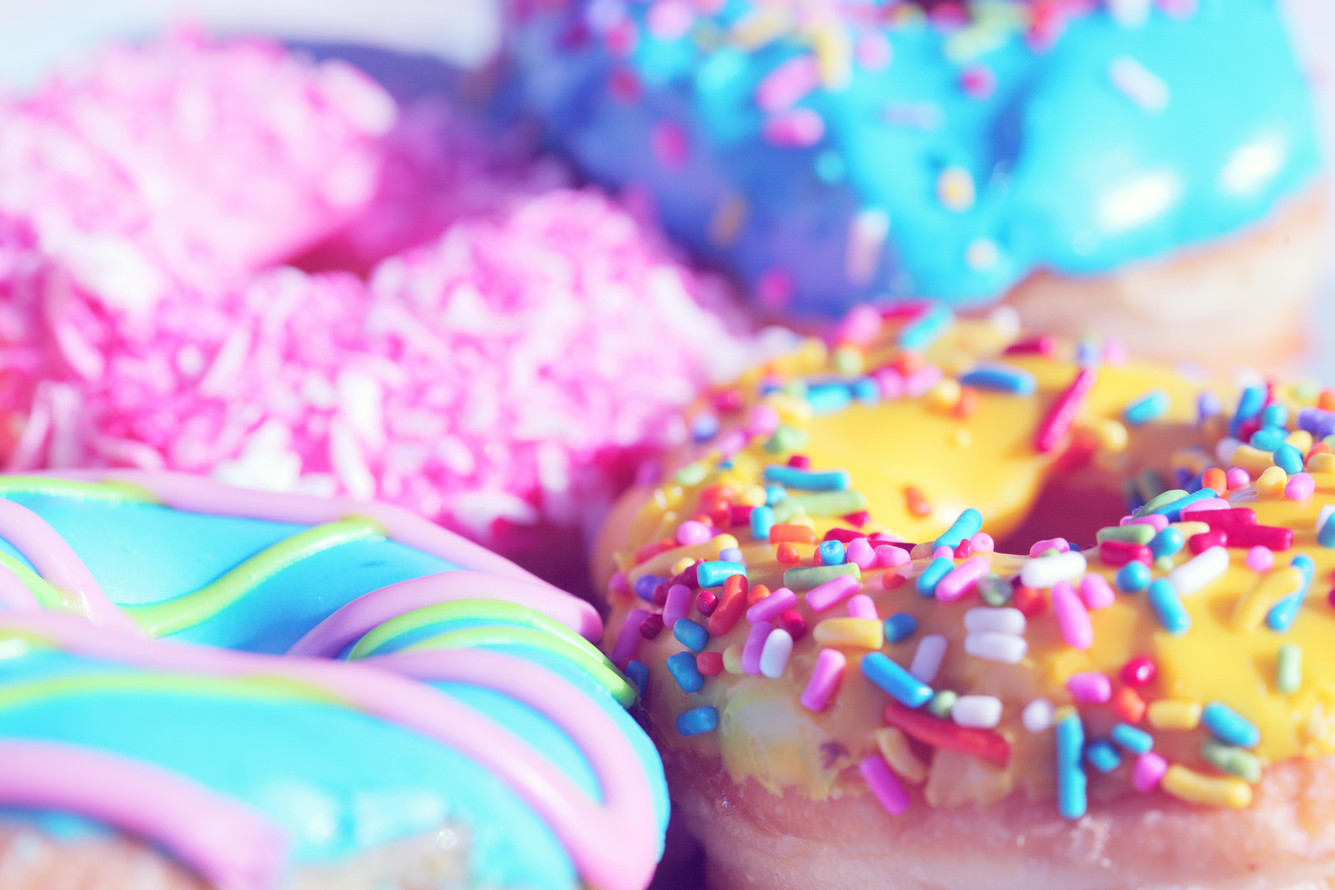
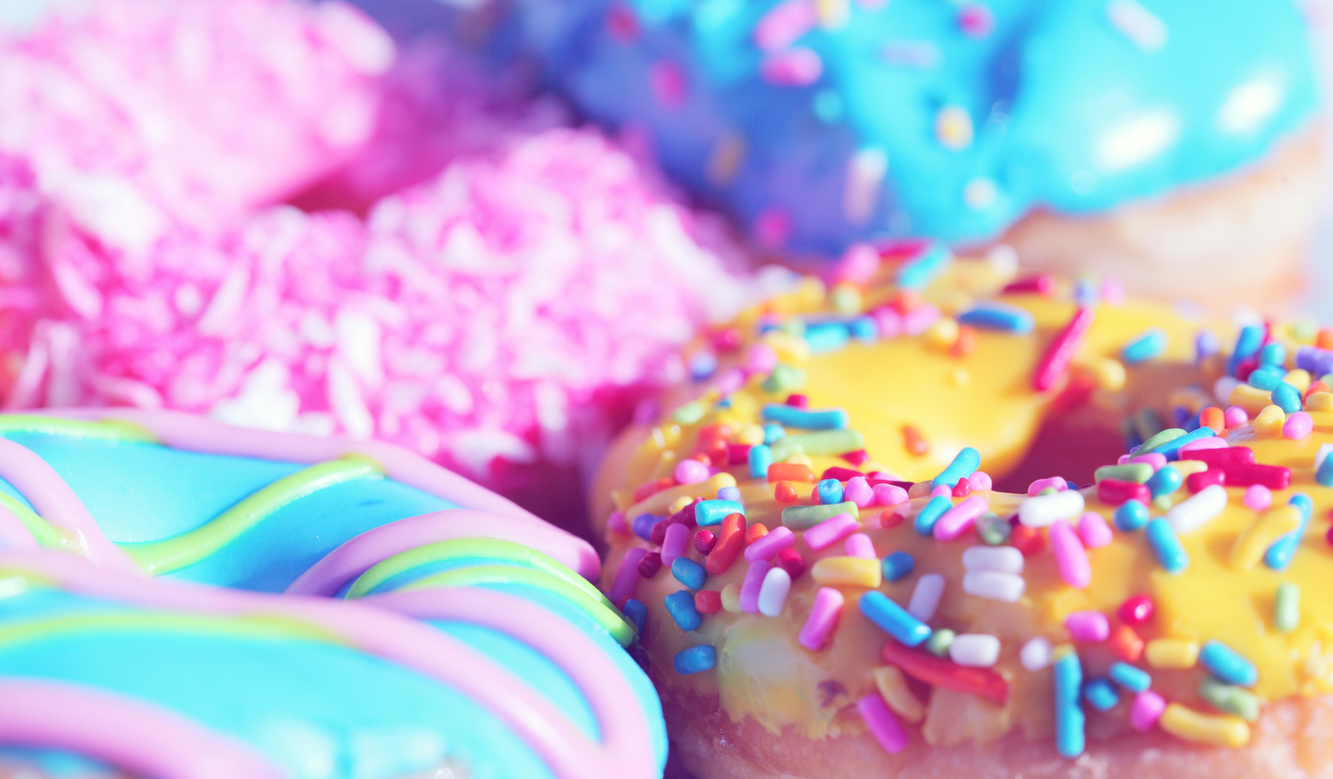
finised home + review page design

diff --git a/index.html b/index.html
@@ -14,77 +14,132 @@
     <title>Donald's Donuts</title>
   </head>
   <body>
-    <div class="card w-96 bg-base-100 shadow-xl">
-      <figure>
-        <img
-          src="https://img.daisyui.com/images/stock/photo-1606107557195-0e29a4b5b4aa.jpg"
-          alt="Shoes"
-        />
-      </figure>
-      <div class="card-body">
-        <h2 class="card-title">Shoes!</h2>
-        <p>If a dog chews shoes whose shoes does he choose?</p>
-        <div class="card-actions justify-end">
-          <button class="btn btn-primary">Buy Now</button>
-        </div>
-      </div>
-    </div>
     <section id="home">
-      <nav>
-        <!-- <a href="#"><img src="images/logo.PNG" /></a> -->
-        <a href="#">Home</a> | <a href="#">Reviews</a> | <a href="#">Menu</a> |
-        <a href="#">Contact</a>
-      </nav>
-      <h1>Fresh, Delicious Donuts Made Daily!</h1>
-      <p>
-        Visit us for a sweet treat and experience the freshly baked,
-        mouth-watering donuts.
-      </p>
-      <button>Discover our Donuts!</button>
+      <div class="navbar bg-base-300">
+        <div class="navbar-start">
+          <div class="dropdown">
+            <div tabindex="0" role="button" class="btn btn-ghost lg:hidden">
+              <svg
+                xmlns="http://www.w3.org/2000/svg"
+                class="h-5 w-5"
+                fill="none"
+                viewBox="0 0 24 24"
+                stroke="currentColor"
+              >
+                <path
+                  stroke-linecap="round"
+                  stroke-linejoin="round"
+                  stroke-width="2"
+                  d="M4 6h16M4 12h8m-8 6h16"
+                />
+              </svg>
+            </div>
+            <ul
+              tabindex="0"
+              class="menu menu-sm dropdown-content mt-3 z-[1] p-2 shadow bg-base-100 rounded-box w-52"
+            >
+              <li><a>Home</a></li>
+              <li><a>Reviews</a></li>
+              <li><a>Menu</a></li>
+              <li><a>Contact</a></li>
+            </ul>
+          </div>
+          <a class="btn btn-lg btn-ghost"
+            ><img src="images/logo.PNG" id="navbar-logo"
+          /></a>
+        </div>
+        <div class="navbar-center hidden lg:flex">
+          <ul class="menu menu-horizontal px-1">
+            <li><a class="text-xl">Home</a></li>
+            <li><a class="text-xl">Reviews</a></li>
+            <li><a class="text-xl">Menu</a></li>
+            <li><a class="text-xl">Contact</a></li>
+          </ul>
+        </div>
+        <div class="navbar-end"></div>
+      </div>
+      <div class="img-div">
+        <img src="images/home_bckgrnd_img.jpg" id="home-img" />
+        <h1 class="text-8xl font-bold wht" id="attention-phrase">
+          Fresh, Delicious Donuts Made Daily!
+        </h1>
+        <p class="text-3xl wht" id="home-description">
+          Visit us for a sweet treat and experience the freshly baked,
+          mouth-watering donuts.
+        </p>
+        <button class="btn btn-lg btn-wide btn-primary" id="cta-button">
+          <p class="text-4xl" id="cta-button-text">Discover our Donuts!</p>
+        </button>
+      </div>
     </section>
     <section id="reviews">
-      <h1>Reviews</h1>
-      <div class="review-card small">
-        <div id="reviewer-name">Chuck</div>
-        <div id="review-content">
-          We've been going to Donald's for years and they're hands down the best
-          donuts in the area. The apple fritter is absolutely second to none.
-          The huge Chappel Hill sausage Texas style kolaches are a must have as
-          well. The staff is super friendly and even though we only go once in a
-          while they always remember us and our favorites.
-        </div>
-      </div>
-      <div class="review-card big">
-        <div id="reviewer-name">Carla</div>
-        <div id="review-content">
-          My first time coming to the donut shop by my neighborhood.The service
-          was outstanding, such a sweet lady on a early Sunday morning even gave
-          us donut holes for free with my purchase. Very clean, Fresh and tons
-          of options to choose from and the cake donuts have a real homemade
-          taste. The lemon cake donut was my favorite. Definitely recommend
-          anyone in the area to try.. 🍩
-        </div>
-      </div>
-      <div class="review-card small">
-        <div id="reviewer-name">John</div>
-        <div id="review-content">
-          Best, donut place in the Houston area!!! Highly recommend this for
-          your morning delicacies. They have some of the best donuts and
-          kolaches you'll find around with unbeatable prices. The staff is super
-          friendly and I sadly moved away but I still make the trek to go some
-          mornings!!!
+      <div class="img-div">
+        <img src="images/review_backgrnd_img.jpg" id="review-img" />
+        <h1 class="text-7xl font-bold wht" id="review-title">Reviews</h1>
+        <div class="flex flex-wrap space-x-4 justify-center" id="review-cards">
+          <div class="card w-96 bg-base-100 shadow-xl">
+            <div class="card-body items-center text-center">
+              <h2 class="card-title text-3xl">Chuck</h2>
+              <div class="rating">
+                <input name="rating-2" class="mask mask-star-2 bg-orange-400" />
+                <input name="rating-2" class="mask mask-star-2 bg-orange-400" />
+                <input name="rating-2" class="mask mask-star-2 bg-orange-400" />
+                <input name="rating-2" class="mask mask-star-2 bg-orange-400" />
+                <input name="rating-2" class="mask mask-star-2 bg-orange-400" />
+              </div>
+              <p>
+                We've been going to Donald's for years and they're hands down
+                the best donuts in the area. The apple fritter is absolutely
+                second to none. The huge Chappel Hill sausage Texas style
+                kolaches are a must have as well. The staff is super friendly
+                and even though we only go once in a while they always remember
+                us and our favorites.
+              </p>
+            </div>
+          </div>
+          <div class="card w-96 bg-base-100 shadow-xl">
+            <div class="card-body items-center text-center">
+              <h2 class="card-title text-3xl">Carla</h2>
+              <div class="rating">
+                <input name="rating-2" class="mask mask-star-2 bg-orange-400" />
+                <input name="rating-2" class="mask mask-star-2 bg-orange-400" />
+                <input name="rating-2" class="mask mask-star-2 bg-orange-400" />
+                <input name="rating-2" class="mask mask-star-2 bg-orange-400" />
+                <input name="rating-2" class="mask mask-star-2 bg-orange-400" />
+              </div>
+              <p>
+                My first time coming to the donut shop by my neighborhood. The
+                service was outstanding, such a sweet lady on a early Sunday
+                morning even gave us donut holes for free with my purchase. Very
+                clean, Fresh and tons of options to choose from and the cake
+                donuts have a real homemade taste. The lemon cake donut was my
+                favorite. Definitely recommend anyone in the area to try.. 🍩
+              </p>
+            </div>
+          </div>
+          <div class="card w-96 bg-base-100 shadow-xl">
+            <div class="card-body items-center text-center">
+              <h2 class="card-title text-3xl">John</h2>
+              <div class="rating">
+                <input name="rating-2" class="mask mask-star-2 bg-orange-400" />
+                <input name="rating-2" class="mask mask-star-2 bg-orange-400" />
+                <input name="rating-2" class="mask mask-star-2 bg-orange-400" />
+                <input name="rating-2" class="mask mask-star-2 bg-orange-400" />
+                <input name="rating-2" class="mask mask-star-2 bg-orange-400" />
+              </div>
+              <p>
+                Best, donut place in the Houston area!!! Highly recommend this
+                for your morning delicacies. They have some of the best donuts
+                and kolaches you'll find around with unbeatable prices. The
+                staff is super friendly and I sadly moved away but I still make
+                the trek to go some mornings!!!
+              </p>
+            </div>
+          </div>
         </div>
       </div>
     </section>
-    <section id="menu">
-      <h1>Our Menu</h1>
-      <div class="menu-card"><h3>Donuts</h3></div>
-      <div class="menu-card"><h3>Pastries</h3></div>
-      <div class="menu-card"><h3>Breakfast</h3></div>
-      <div class="menu-card"><h3>Kolaches</h3></div>
-      <div class="menu-card"><h3>Croissant Sandwiches</h3></div>
-      <div class="menu-card"><h3>Beverages</h3></div>
-    </section>
-    <section id="contact"><h1>Contact Us</h1></section>
+    <section id="menu"></section>
+    <section id="contact"></section>
   </body>
 </html>

diff --git a/styles.css b/styles.css
@@ -1,20 +1,62 @@
-/* :root {
+#navbar-logo {
+  height: 65px;
+}
+
+.img-div {
   background-color: black;
+}
+
+.wht {
   color: white;
-} */
-
-#home {
-  background-image: url(images/home_bckgrnd_img.jpg);
 }
 
-#reviews {
-  background-image: url(images/review_backgrnd_img.jpg);
+#home-img {
+  opacity: 0.3;
 }
 
-#menu {
-  background-image: url(images/menu_bckgrnd_img.jpg);
+#attention-phrase {
+  position: absolute;
+  text-align: center;
+  width: 80%;
+  top: 50%;
+  left: 50%;
+  transform: translate(-50%, -50%);
 }
 
-/* img {
-  width: 50px;
-} */
+#home-description {
+  position: absolute;
+  text-align: center;
+  top: 50%;
+  left: 50%;
+  transform: translate(-50%, 200%);
+}
+
+#cta-button {
+  position: absolute;
+  border-radius: 2vw;
+  text-align: center;
+  width: 35%;
+  height: 10%;
+  top: 90%;
+  left: 50%;
+  transform: translate(-50%, 100%);
+}
+
+#review-img {
+  opacity: 0.5;
+}
+
+#review-title {
+  position: absolute;
+  text-align: center;
+  width: 80%;
+  top: 165%;
+  left: 50%;
+  transform: translate(-50%, -50%);
+}
+
+#review-cards {
+  position: absolute;
+  left: 3%;
+  top: 190%;
+}
